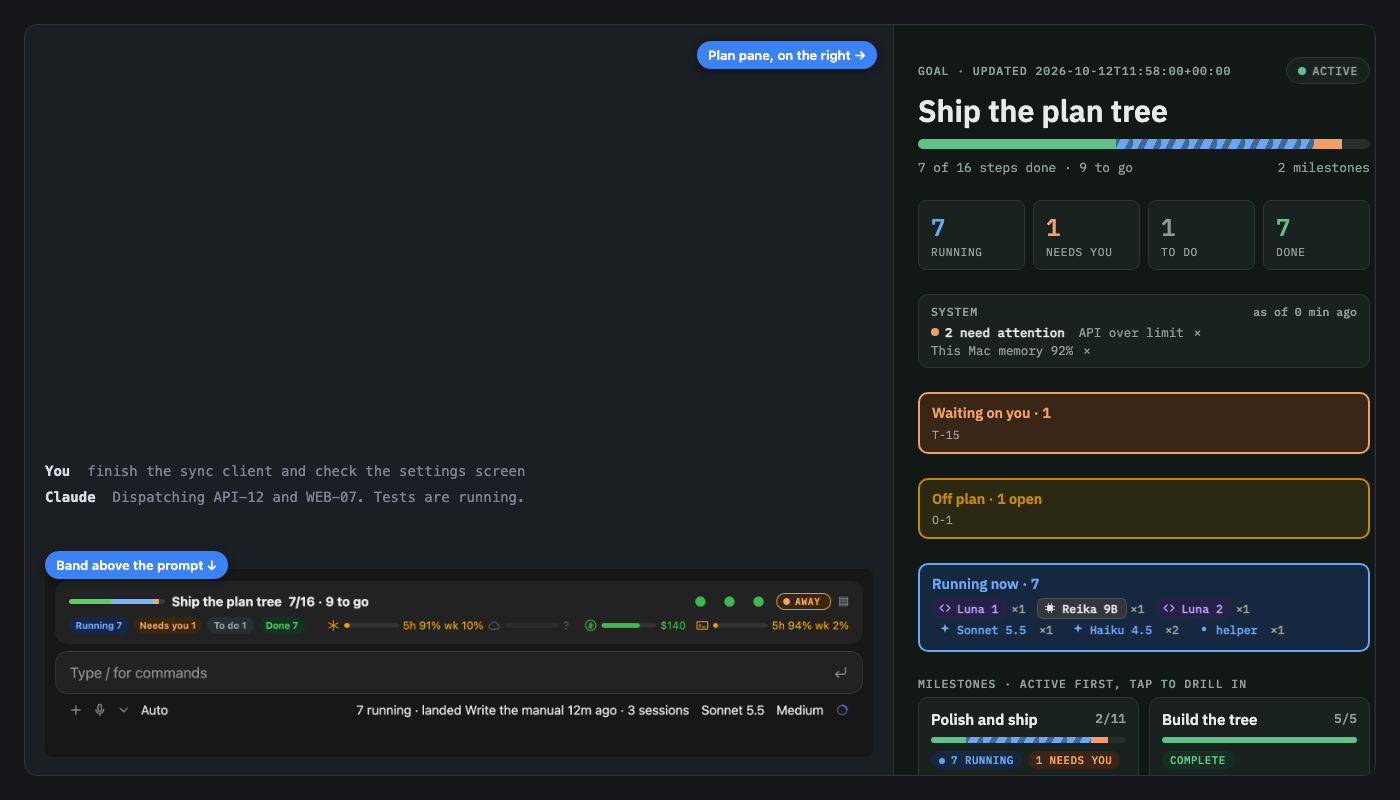
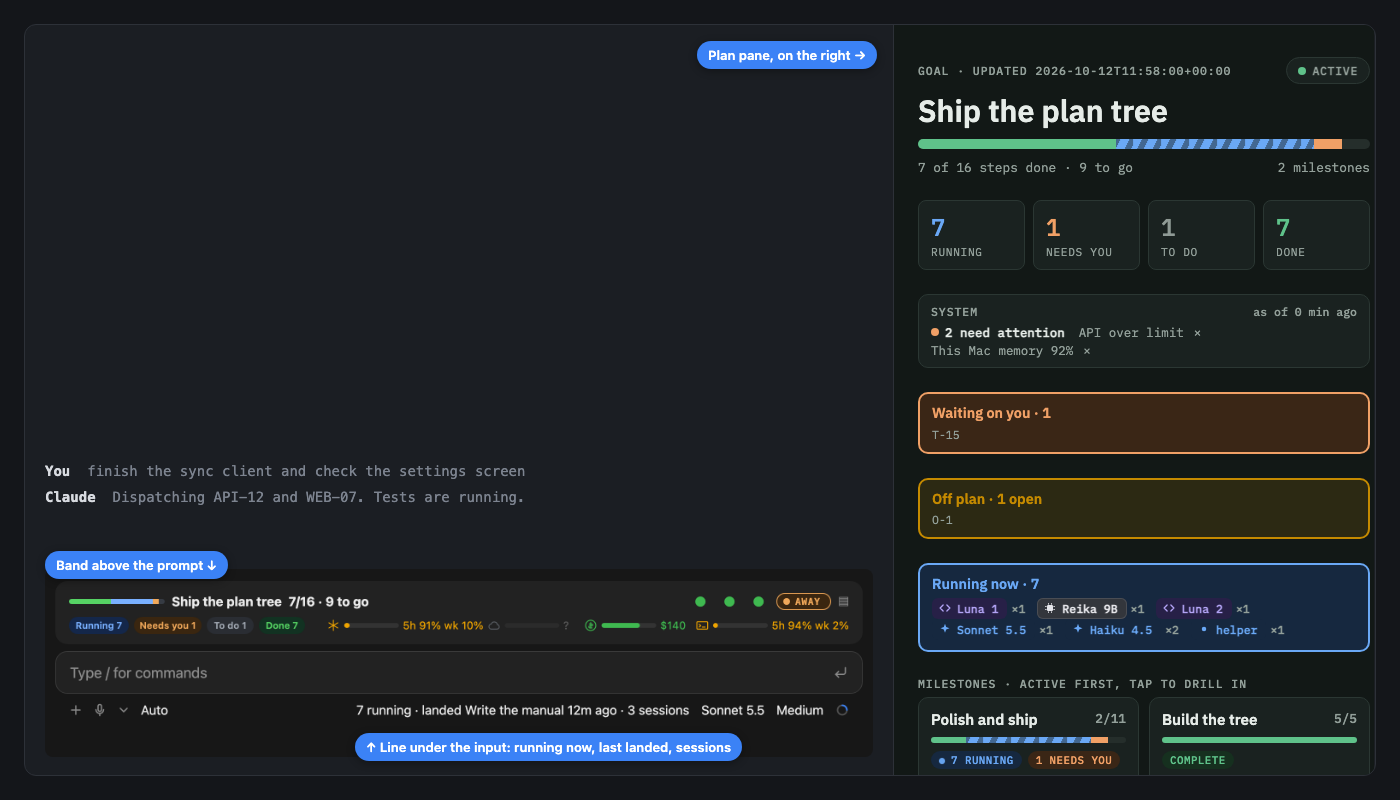
Overview picture: label the line under the input

Changed region(s): [[0.2457, 0.9062, 0.5529, 0.9688]]

diff --git a/tools/overviewshot.ts b/tools/overviewshot.ts
@@ -29,6 +29,7 @@ for (const [theme, scheme] of [['dark', 0], ['light', 1]] as const) {
     <p style="height:44px"></p>
     <img class=band src="${img(`status-row-${theme}.png`)}">
     <span class=chip style="left:20px;bottom:196px">Band above the prompt \u2193</span>
+  <span class=chip style="left:330px;bottom:14px">\u2191 Line under the input: running now, last landed, sessions</span>
   <span class=chip style="right:16px;top:16px">Plan pane, on the right \u2192</span>
   </div>
   <div class=side><img src="${img(`page-home-${theme}.png`)}"></div>

diff --git a/docs/CHANGELOG.md b/docs/CHANGELOG.md
@@ -2,7 +2,7 @@
 
 ## 0.25.3
 
-- README cut to one screen: a picture of where the plan pane and the band sit in Claude Code (`tools/overviewshot.ts`), then install. The plan page and full pane pictures moved to docs/FEATURES.md.
+- README cut to one screen: a picture of where the plan pane and the band sit in Claude Code (`tools/overviewshot.ts`, labels the line under the input too), then install. The plan page and full pane pictures moved to docs/FEATURES.md.
 - Removed unused screenshots (`band-*`, `pane-dark`, `pane-light`).
 
 ## 0.25.2
